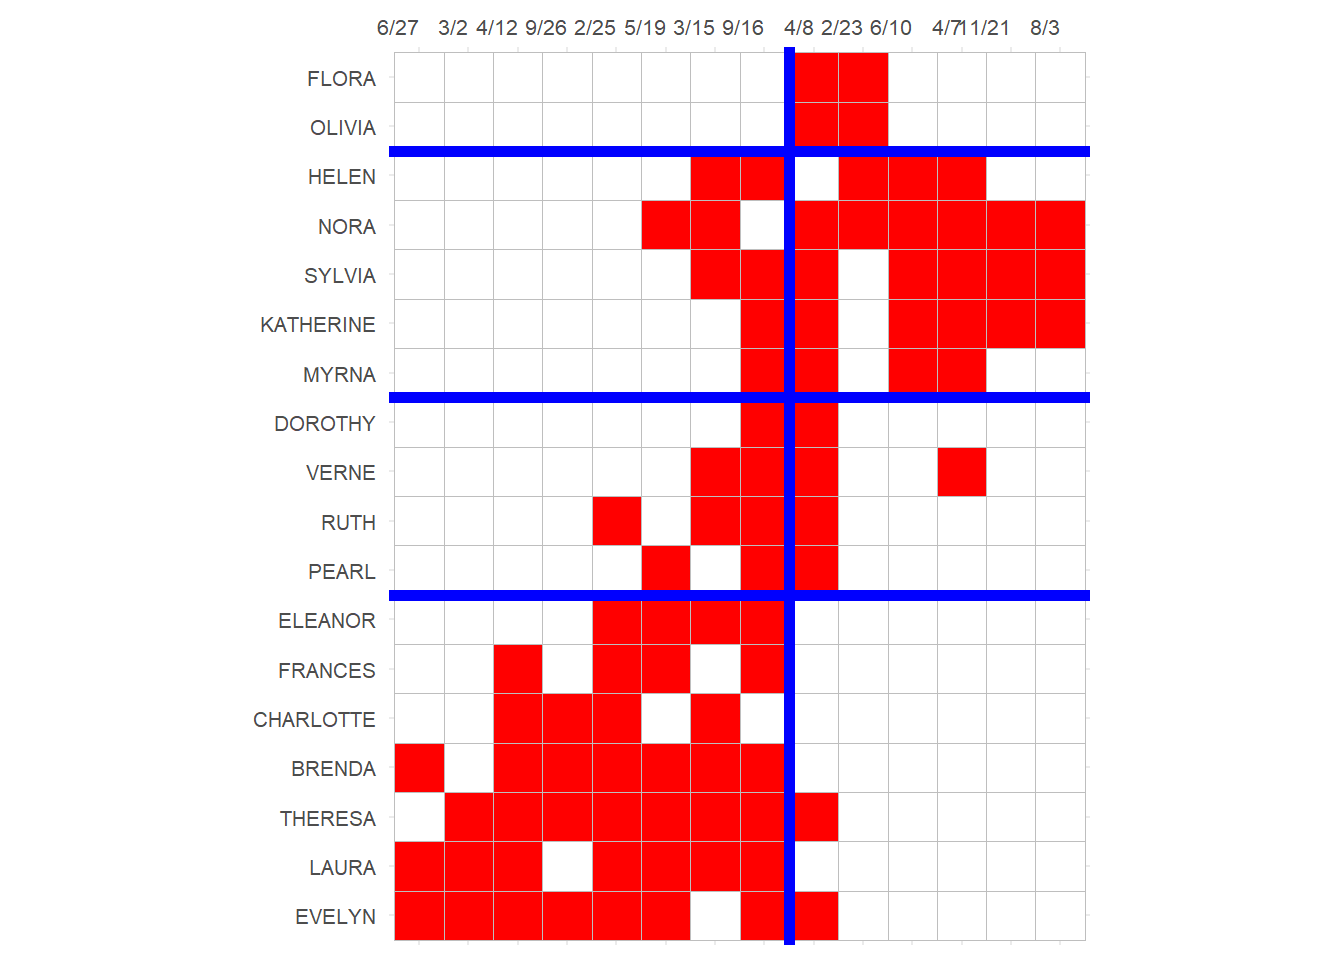
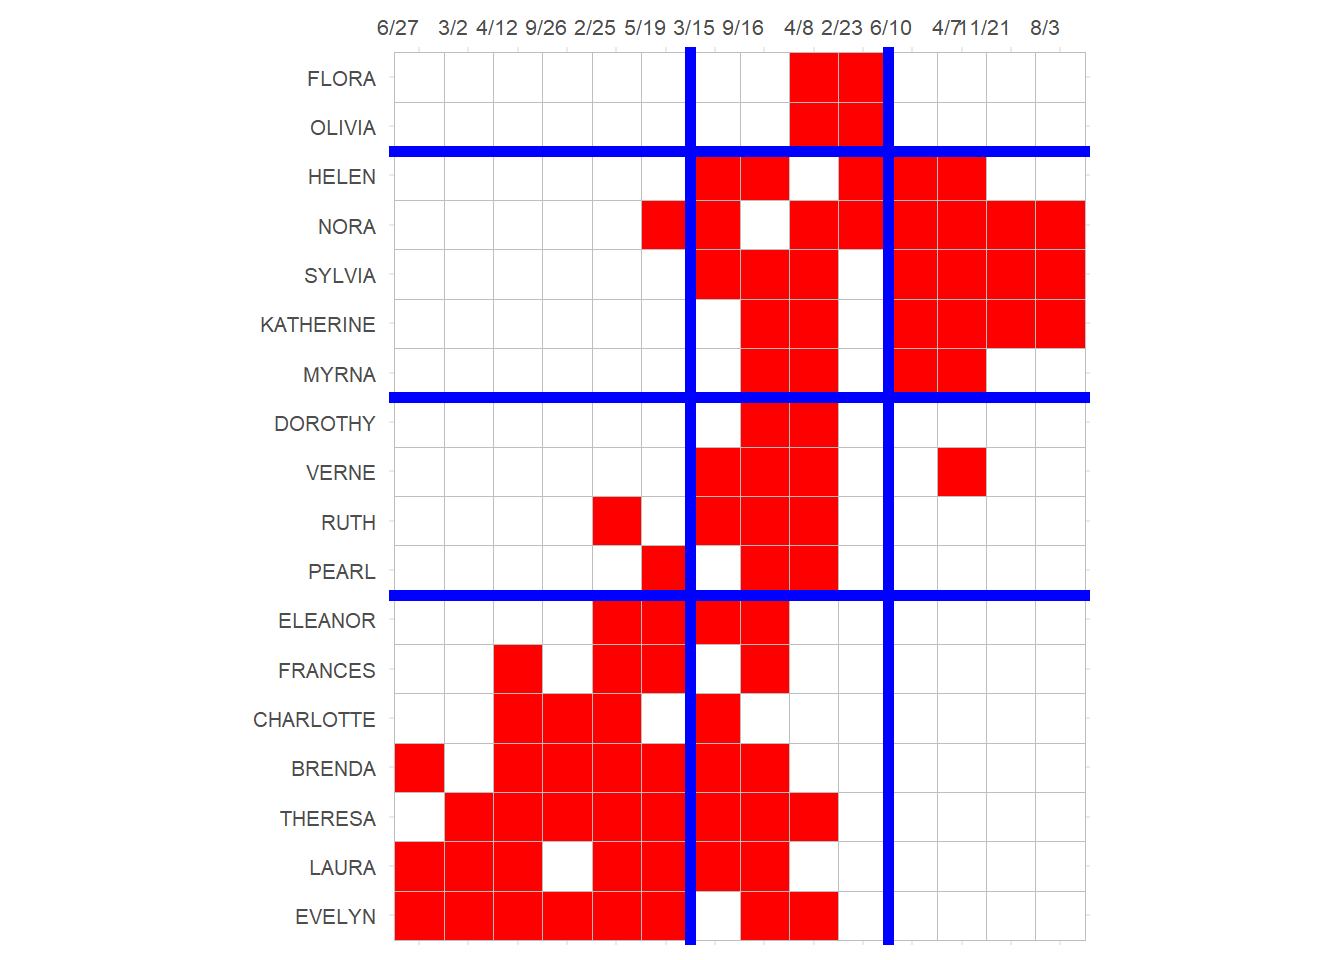
hay caramba

Changed region(s): [[0.6562, 0.0312, 0.6875, 1.0], [0.5625, 0.0312, 0.5938, 1.0], [0.5, 0.0312, 0.5312, 1.0]]

diff --git a/docs/handout7.html b/docs/handout7.html
@@ -282,6 +282,11 @@ div.csl-indent {
   <a href="./spectral.html" class="sidebar-item-text sidebar-link">Community Detection Using Spectral Clustering</a>
   </div>
 </li>
+          <li class="sidebar-item">
+  <div class="sidebar-item-container"> 
+  <a href="./handout8.html" class="sidebar-item-text sidebar-link">Analyzing Ego Networks</a>
+  </div>
+</li>
       </ul>
   </li>
       </ul>
@@ -1052,42 +1057,9 @@ FLORA         1     1         1      1    2     1       1      2     2</code></p
 <span id="cb82-2"><a href="#cb82-2"></a>   G.p <span class="ot">&lt;-</span> Proj[[<span class="dv">1</span>]]</span>
 <span id="cb82-3"><a href="#cb82-3"></a>   G.g <span class="ot">&lt;-</span> Proj[[<span class="dv">2</span>]]</span></code><button title="Copy to Clipboard" class="code-copy-button"><i class="bi"></i></button></pre></div>
 </div>
+<p>In the graph objects produced by the <code>bipartite_projection</code> function, the actual shared memberships and shared members are stored as an <em>attribute</em> of each edge called <code>weight</code> used in the plotting code above to set the <code>edge.width</code>:</p>
 <div class="cell">
-<div class="sourceCode cell-code" id="cb83"><pre class="sourceCode numberSource r number-lines code-with-copy"><code class="sourceCode r"><span id="cb83-1"><a href="#cb83-1"></a>   <span class="fu">set.seed</span>(<span class="dv">123</span>)</span>
-<span id="cb83-2"><a href="#cb83-2"></a>   <span class="fu">plot</span>(G.p, </span>
-<span id="cb83-3"><a href="#cb83-3"></a>     <span class="at">vertex.size=</span><span class="dv">8</span>, <span class="at">vertex.frame.color=</span><span class="st">"lightgray"</span>, </span>
-<span id="cb83-4"><a href="#cb83-4"></a>     <span class="at">vertex.label.dist=</span><span class="dv">2</span>, <span class="at">edge.curved=</span><span class="fl">0.2</span>, </span>
-<span id="cb83-5"><a href="#cb83-5"></a>     <span class="at">vertex.label.cex =</span> <span class="fl">1.25</span>, <span class="at">edge.color =</span> <span class="st">"lightgray"</span>,</span>
-<span id="cb83-6"><a href="#cb83-6"></a>     <span class="at">edge.width =</span> <span class="fu">E</span>(G.p)<span class="sc">$</span>weight)</span></code><button title="Copy to Clipboard" class="code-copy-button"><i class="bi"></i></button></pre></div>
-<div class="cell-output-display">
-<div class="quarto-figure quarto-figure-center">
-<figure class="figure">
-<p><img src="handout7_files/figure-html/unnamed-chunk-38-1.png" class="img-fluid figure-img" width="1152"></p>
-<p></p><figcaption class="figure-caption">One mode projection of people.</figcaption><p></p>
-</figure>
-</div>
-</div>
-</div>
-<div class="cell">
-<div class="sourceCode cell-code" id="cb84"><pre class="sourceCode numberSource r number-lines code-with-copy"><code class="sourceCode r"><span id="cb84-1"><a href="#cb84-1"></a>   <span class="fu">set.seed</span>(<span class="dv">123</span>)</span>
-<span id="cb84-2"><a href="#cb84-2"></a>   <span class="fu">plot</span>(G.g, </span>
-<span id="cb84-3"><a href="#cb84-3"></a>     <span class="at">vertex.size=</span><span class="dv">8</span>, <span class="at">vertex.frame.color=</span><span class="st">"lightgray"</span>, </span>
-<span id="cb84-4"><a href="#cb84-4"></a>     <span class="at">vertex.label.dist=</span><span class="dv">2</span>, <span class="at">edge.curved=</span><span class="fl">0.2</span>, </span>
-<span id="cb84-5"><a href="#cb84-5"></a>     <span class="at">vertex.label.cex =</span> <span class="fl">1.25</span>, <span class="at">edge.color =</span> <span class="st">"lightgray"</span>,</span>
-<span id="cb84-6"><a href="#cb84-6"></a>     <span class="at">edge.width =</span> <span class="fu">E</span>(G.g)<span class="sc">$</span>weight)</span></code><button title="Copy to Clipboard" class="code-copy-button"><i class="bi"></i></button></pre></div>
-<div class="cell-output-display">
-<div class="quarto-figure quarto-figure-center">
-<figure class="figure">
-<p><img src="handout7_files/figure-html/unnamed-chunk-39-1.png" class="img-fluid figure-img" width="1152"></p>
-<p></p><figcaption class="figure-caption">One mode projection of groups</figcaption><p></p>
-</figure>
-</div>
-</div>
-</div>
-<p>Which produces a binarized undirected graph of each projection.</p>
-<p>The actual shared memberships and shared members are stored as an <em>attribute</em> of each edge called <code>weight</code> used in the plotting code above to set the <code>edge.width</code>:</p>
-<div class="cell">
-<div class="sourceCode cell-code" id="cb85"><pre class="sourceCode numberSource r number-lines code-with-copy"><code class="sourceCode r"><span id="cb85-1"><a href="#cb85-1"></a>   <span class="fu">edge_attr</span>(G.p)</span></code><button title="Copy to Clipboard" class="code-copy-button"><i class="bi"></i></button></pre></div>
+<div class="sourceCode cell-code" id="cb83"><pre class="sourceCode numberSource r number-lines code-with-copy"><code class="sourceCode r"><span id="cb83-1"><a href="#cb83-1"></a>   <span class="fu">edge_attr</span>(G.p)</span></code><button title="Copy to Clipboard" class="code-copy-button"><i class="bi"></i></button></pre></div>
 <div class="cell-output cell-output-stdout">
 <pre><code>$weight
   [1] 6 6 7 3 4 3 3 3 2 2 2 2 2 1 2 1 1 6 6 3 4 4 3 2 2 2 2 2 1 1 1 6 4 4 4 4 3
@@ -1095,7 +1067,7 @@ FLORA         1     1         1      1    2     1       1      2     2</code></p
  [75] 1 3 2 2 2 2 2 1 1 1 2 2 2 2 2 2 1 2 1 1 3 3 2 2 2 2 2 1 1 4 3 3 3 3 2 1 1
 [112] 4 4 3 2 3 1 1 6 3 2 5 1 1 6 4 2 1 1 4 1 2 2 1 1 1 1 1 2</code></pre>
 </div>
-<div class="sourceCode cell-code" id="cb87"><pre class="sourceCode numberSource r number-lines code-with-copy"><code class="sourceCode r"><span id="cb87-1"><a href="#cb87-1"></a>   <span class="fu">edge_attr</span>(G.g)</span></code><button title="Copy to Clipboard" class="code-copy-button"><i class="bi"></i></button></pre></div>
+<div class="sourceCode cell-code" id="cb85"><pre class="sourceCode numberSource r number-lines code-with-copy"><code class="sourceCode r"><span id="cb85-1"><a href="#cb85-1"></a>   <span class="fu">edge_attr</span>(G.g)</span></code><button title="Copy to Clipboard" class="code-copy-button"><i class="bi"></i></button></pre></div>
 <div class="cell-output cell-output-stdout">
 <pre><code>$weight
  [1] 2 3 2 3 3 3 1 2 3 2 3 3 3 2 2 4 6 5 5 2 4 4 3 3 2 3 6 7 3 6 7 4 5 1 1 1 1 1
@@ -1104,7 +1076,7 @@ FLORA         1     1         1      1    2     1       1      2     2</code></p
 </div>
 <p>So to get the weighted projection matrix, we need to type:</p>
 <div class="cell">
-<div class="sourceCode cell-code" id="cb89"><pre class="sourceCode numberSource r number-lines code-with-copy"><code class="sourceCode r"><span id="cb89-1"><a href="#cb89-1"></a>   <span class="fu">as.matrix</span>(<span class="fu">as_adjacency_matrix</span>(G.p, <span class="at">attr =</span> <span class="st">"weight"</span>))</span></code><button title="Copy to Clipboard" class="code-copy-button"><i class="bi"></i></button></pre></div>
+<div class="sourceCode cell-code" id="cb87"><pre class="sourceCode numberSource r number-lines code-with-copy"><code class="sourceCode r"><span id="cb87-1"><a href="#cb87-1"></a>   <span class="fu">as.matrix</span>(<span class="fu">as_adjacency_matrix</span>(G.p, <span class="at">attr =</span> <span class="st">"weight"</span>))</span></code><button title="Copy to Clipboard" class="code-copy-button"><i class="bi"></i></button></pre></div>
 <div class="cell-output cell-output-stdout">
 <pre><code>          EVELYN LAURA THERESA BRENDA CHARLOTTE FRANCES ELEANOR PEARL RUTH
 EVELYN         0     6       7      6         3       4       3     3    3
@@ -1147,7 +1119,7 @@ FLORA         1     1         1      1    2     1       1      2     0</code></p
 </div>
 </div>
 <div class="cell">
-<div class="sourceCode cell-code" id="cb91"><pre class="sourceCode numberSource r number-lines code-with-copy"><code class="sourceCode r"><span id="cb91-1"><a href="#cb91-1"></a>   <span class="fu">as.matrix</span>(<span class="fu">as_adjacency_matrix</span>(G.g, <span class="at">attr =</span> <span class="st">"weight"</span>))</span></code><button title="Copy to Clipboard" class="code-copy-button"><i class="bi"></i></button></pre></div>
+<div class="sourceCode cell-code" id="cb89"><pre class="sourceCode numberSource r number-lines code-with-copy"><code class="sourceCode r"><span id="cb89-1"><a href="#cb89-1"></a>   <span class="fu">as.matrix</span>(<span class="fu">as_adjacency_matrix</span>(G.g, <span class="at">attr =</span> <span class="st">"weight"</span>))</span></code><button title="Copy to Clipboard" class="code-copy-button"><i class="bi"></i></button></pre></div>
 <div class="cell-output cell-output-stdout">
 <pre><code>      6/27 3/2 4/12 9/26 2/25 5/19 3/15 9/16 4/8 6/10 2/23 4/7 11/21 8/3
 6/27     0   2    3    2    3    3    2    3   1    0    0   0     0   0
@@ -1166,8 +1138,41 @@ FLORA         1     1         1      1    2     1       1      2     0</code></p
 8/3      0   0    0    0    0    1    2    2   3    3    1   3     3   0</code></pre>
 </div>
 </div>
+<p>We can also use the weights to draw a weighted graph network plot of people and group projections. All we have to do is set the <code>edge.with</code> argument to the value of edge weight atribute in the corresponding graph:</p>
+<div class="cell">
+<div class="sourceCode cell-code" id="cb91"><pre class="sourceCode numberSource r number-lines code-with-copy"><code class="sourceCode r"><span id="cb91-1"><a href="#cb91-1"></a>   <span class="fu">set.seed</span>(<span class="dv">123</span>)</span>
+<span id="cb91-2"><a href="#cb91-2"></a>   <span class="fu">plot</span>(G.p, </span>
+<span id="cb91-3"><a href="#cb91-3"></a>     <span class="at">vertex.size=</span><span class="dv">8</span>, <span class="at">vertex.frame.color=</span><span class="st">"lightgray"</span>, </span>
+<span id="cb91-4"><a href="#cb91-4"></a>     <span class="at">vertex.label.dist=</span><span class="dv">2</span>, <span class="at">edge.curved=</span><span class="fl">0.2</span>, </span>
+<span id="cb91-5"><a href="#cb91-5"></a>     <span class="at">vertex.label.cex =</span> <span class="fl">1.25</span>, <span class="at">edge.color =</span> <span class="st">"lightgray"</span>,</span>
+<span id="cb91-6"><a href="#cb91-6"></a>     <span class="at">edge.width =</span> <span class="fu">E</span>(G.p)<span class="sc">$</span>weight)</span></code><button title="Copy to Clipboard" class="code-copy-button"><i class="bi"></i></button></pre></div>
+<div class="cell-output-display">
+<div class="quarto-figure quarto-figure-center">
+<figure class="figure">
+<p><img src="handout7_files/figure-html/unnamed-chunk-41-1.png" class="img-fluid figure-img" width="1152"></p>
+<p></p><figcaption class="figure-caption">One mode projection of people.</figcaption><p></p>
+</figure>
+</div>
+</div>
+</div>
+<div class="cell">
+<div class="sourceCode cell-code" id="cb92"><pre class="sourceCode numberSource r number-lines code-with-copy"><code class="sourceCode r"><span id="cb92-1"><a href="#cb92-1"></a>   <span class="fu">set.seed</span>(<span class="dv">123</span>)</span>
+<span id="cb92-2"><a href="#cb92-2"></a>   <span class="fu">plot</span>(G.g, </span>
+<span id="cb92-3"><a href="#cb92-3"></a>     <span class="at">vertex.size=</span><span class="dv">8</span>, <span class="at">vertex.frame.color=</span><span class="st">"lightgray"</span>, </span>
+<span id="cb92-4"><a href="#cb92-4"></a>     <span class="at">vertex.label.dist=</span><span class="dv">2</span>, <span class="at">edge.curved=</span><span class="fl">0.2</span>, </span>
+<span id="cb92-5"><a href="#cb92-5"></a>     <span class="at">vertex.label.cex =</span> <span class="fl">1.25</span>, <span class="at">edge.color =</span> <span class="st">"lightgray"</span>,</span>
+<span id="cb92-6"><a href="#cb92-6"></a>     <span class="at">edge.width =</span> <span class="fu">E</span>(G.g)<span class="sc">$</span>weight)</span></code><button title="Copy to Clipboard" class="code-copy-button"><i class="bi"></i></button></pre></div>
+<div class="cell-output-display">
+<div class="quarto-figure quarto-figure-center">
+<figure class="figure">
+<p><img src="handout7_files/figure-html/unnamed-chunk-42-1.png" class="img-fluid figure-img" width="1152"></p>
+<p></p><figcaption class="figure-caption">One mode projection of groups</figcaption><p></p>
+</figure>
+</div>
+</div>
+</div>
 <p>Note that because both <code>G.p</code> and <code>G.g</code> are <strong>weighted graphs</strong> we can calculate the weighted version of degree for both persons and groups from them (sometimes called the <strong>vertex strength</strong>).</p>
-<p>In <code>igraph</code> we can do this as follows:</p>
+<p>In <code>igraph</code> we can do this using the <code>strength</code> function, which takes a weighted graph object as input:</p>
 <div class="cell">
 <div class="sourceCode cell-code" id="cb93"><pre class="sourceCode numberSource r number-lines code-with-copy"><code class="sourceCode r"><span id="cb93-1"><a href="#cb93-1"></a>   <span class="fu">strength</span>(G.p)</span></code><button title="Copy to Clipboard" class="code-copy-button"><i class="bi"></i></button></pre></div>
 <div class="cell-output cell-output-stdout">
@@ -1186,7 +1191,7 @@ FLORA         1     1         1      1    2     1       1      2     0</code></p
    18 </code></pre>
 </div>
 </div>
-<p>Interestingly, as noted by <span class="citation" data-cites="faust97">Faust (<a href="#ref-faust97" role="doc-biblioref">1997, 167</a>)</span>, there is a mathematical connection between the strength of each vertex in the weighted projection and the centrality of the nodes from the other set they are connected to:</p>
+<p>Interestingly, as noted by <span class="citation" data-cites="faust97">Faust (<a href="#ref-faust97" role="doc-biblioref">1997, 167</a>)</span>, there is a (dual!) mathematical connection between the strength of each vertex in the weighted projection and the centrality of the nodes from the other set they are connected to:</p>
 <ol type="1">
 <li><p>For people, the vertex strength is equal to the sum of the sizes of the groups they belong to minus their own degree.</p></li>
 <li><p>For groups, the vertex strength is equal to the sum of the memberships of the people that belong to them, minus their own size.</p></li>
@@ -1436,10 +1441,10 @@ FLORA      0.14  0.14      0.11   0.10 0.17  0.12    0.20   0.33  1.00</code></p
 </section>
 <section id="generalized-vertex-similarity" class="level2">
 <h2 class="anchored" data-anchor-id="generalized-vertex-similarity">Generalized Vertex Similarity</h2>
-<p>Recall that vertex similarity works using the principle of <em>structural equivalence</em>: Two people are similar if the choose the same objects (groups), and two objects (groups) are similar if they are chosen by the same people.</p>
-<p>We can, like we did in the one mode case, be after a more general version of similarity, which says that: Two people are similar if they choose <em>similar</em> objects, and two objects are similar if they are chosen by <em>similar</em> people.</p>
+<p>Recall that vertex similarity works using the principle of <em>structural equivalence</em>: Two people are similar if the choose the <em>same</em> objects (groups), and two objects (groups) are similar if they are chosen by the <em>same</em> people.</p>
+<p>We can, like we did in the one mode case, be after a more general version of similarity, which says that: Two people are similar if they choose <em>similar</em> (not necessarily the same) objects, and two objects are similar if they are chosen by <em>similar</em> (not necessarily the same) people.</p>
 <p>This leads to the same problem setup that inspired the <strong>SimRank</strong> approach <span class="citation" data-cites="jeh_widom02">(<a href="#ref-jeh_widom02" role="doc-biblioref">Jeh and Widom 2002</a>)</span>.</p>
-<p>A function to compute the SimRank similarity between nodes in a two mode network goes as follows:</p>
+<p>A (longish) function to compute the SimRank similarity between nodes in a two mode network goes as follows:</p>
 <div class="cell">
 <div class="sourceCode cell-code" id="cb112"><pre class="sourceCode numberSource r number-lines code-with-copy"><code class="sourceCode r"><span id="cb112-1"><a href="#cb112-1"></a>   TM.SimRank <span class="ot">&lt;-</span> <span class="cf">function</span>(A, <span class="at">C =</span> <span class="fl">0.8</span>, <span class="at">iter =</span> <span class="dv">10</span>) {</span>
 <span id="cb112-2"><a href="#cb112-2"></a>        nr <span class="ot">&lt;-</span> <span class="fu">nrow</span>(A)</span>
@@ -1493,7 +1498,7 @@ FLORA      0.14  0.14      0.11   0.10 0.17  0.12    0.20   0.33  1.00</code></p
 <span id="cb112-50"><a href="#cb112-50"></a>        <span class="fu">return</span>(<span class="fu">list</span>(<span class="at">Sr =</span> Sr, <span class="at">Sc =</span> Sc))</span>
 <span id="cb112-51"><a href="#cb112-51"></a>   }</span></code><button title="Copy to Clipboard" class="code-copy-button"><i class="bi"></i></button></pre></div>
 </div>
-<p>This function takes the bi-adjacency matrix <span class="math inline">\(\mathbf{A}\)</span> as input and returns two similarity matrices: One for the people (row objects) and the other one for the groups (column objects).</p>
+<p>This function takes the bi-adjacency matrix <span class="math inline">\(\mathbf{A}\)</span> as input and returns two generalized relational similarity matrices: One for the people (row objects) and the other one for the groups (column objects).</p>
 <p>Here’s how that would work in the Southern Women data. First we compute the SimRank scores:</p>
 <div class="cell">
 <div class="sourceCode cell-code" id="cb113"><pre class="sourceCode numberSource r number-lines code-with-copy"><code class="sourceCode r"><span id="cb113-1"><a href="#cb113-1"></a>   sim.res <span class="ot">&lt;-</span> <span class="fu">TM.SimRank</span>(A)</span></code><button title="Copy to Clipboard" class="code-copy-button"><i class="bi"></i></button></pre></div>
@@ -1597,13 +1602,14 @@ VERNE     1.000</code></pre>
 <span id="cb126-8"><a href="#cb126-8"></a>   p <span class="ot">&lt;-</span> p <span class="sc">+</span> <span class="fu">geom_hline</span>(<span class="at">yintercept =</span> <span class="fl">7.5</span>, <span class="at">linewidth =</span> <span class="dv">2</span>, <span class="at">color =</span> <span class="st">"blue"</span>)</span>
 <span id="cb126-9"><a href="#cb126-9"></a>   p <span class="ot">&lt;-</span> p <span class="sc">+</span> <span class="fu">geom_hline</span>(<span class="at">yintercept =</span> <span class="fl">11.5</span>, <span class="at">linewidth =</span> <span class="dv">2</span>, <span class="at">color =</span> <span class="st">"blue"</span>)</span>
 <span id="cb126-10"><a href="#cb126-10"></a>   p <span class="ot">&lt;-</span> p <span class="sc">+</span> <span class="fu">geom_hline</span>(<span class="at">yintercept =</span> <span class="fl">16.5</span>, <span class="at">linewidth =</span> <span class="dv">2</span>, <span class="at">color =</span> <span class="st">"blue"</span>)</span>
-<span id="cb126-11"><a href="#cb126-11"></a>   p <span class="ot">&lt;-</span> p <span class="sc">+</span> <span class="fu">geom_vline</span>(<span class="at">xintercept =</span> <span class="fl">8.5</span>, <span class="at">linewidth =</span> <span class="dv">2</span>, <span class="at">color =</span> <span class="st">"blue"</span>)</span>
-<span id="cb126-12"><a href="#cb126-12"></a>   p</span></code><button title="Copy to Clipboard" class="code-copy-button"><i class="bi"></i></button></pre></div>
+<span id="cb126-11"><a href="#cb126-11"></a>   p <span class="ot">&lt;-</span> p <span class="sc">+</span> <span class="fu">geom_vline</span>(<span class="at">xintercept =</span> <span class="fl">6.5</span>, <span class="at">linewidth =</span> <span class="dv">2</span>, <span class="at">color =</span> <span class="st">"blue"</span>)</span>
+<span id="cb126-12"><a href="#cb126-12"></a>   p <span class="ot">&lt;-</span> p <span class="sc">+</span> <span class="fu">geom_vline</span>(<span class="at">xintercept =</span> <span class="fl">10.5</span>, <span class="at">linewidth =</span> <span class="dv">2</span>, <span class="at">color =</span> <span class="st">"blue"</span>)</span>
+<span id="cb126-13"><a href="#cb126-13"></a>   p</span></code><button title="Copy to Clipboard" class="code-copy-button"><i class="bi"></i></button></pre></div>
 <div class="cell-output-display">
 <p><img src="handout7_files/figure-html/unnamed-chunk-61-1.png" class="img-fluid" width="672"></p>
 </div>
 </div>
-<p>Which produces a familiar block partition of persons and events.</p>
+<p>Note that this block solution is similar (pun intended) but not the <em>exactly</em> the same as the one based on structural equivalence we obtained earlier, although it would lead to the same image matrix.</p>
 </section>
 <section id="eigenvector-status" class="level2">
 <h2 class="anchored" data-anchor-id="eigenvector-status">Eigenvector Status</h2>
